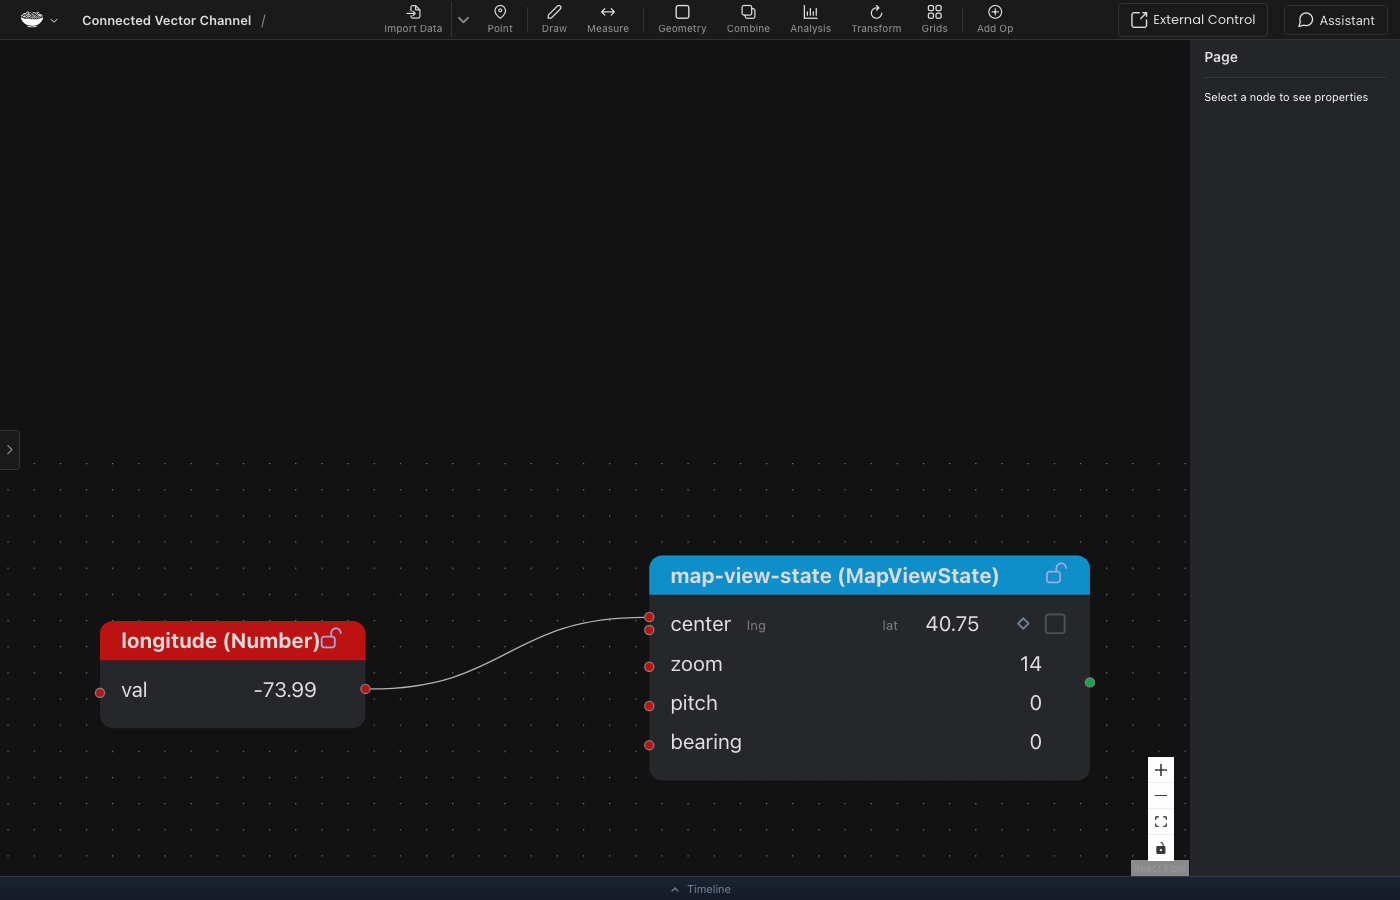
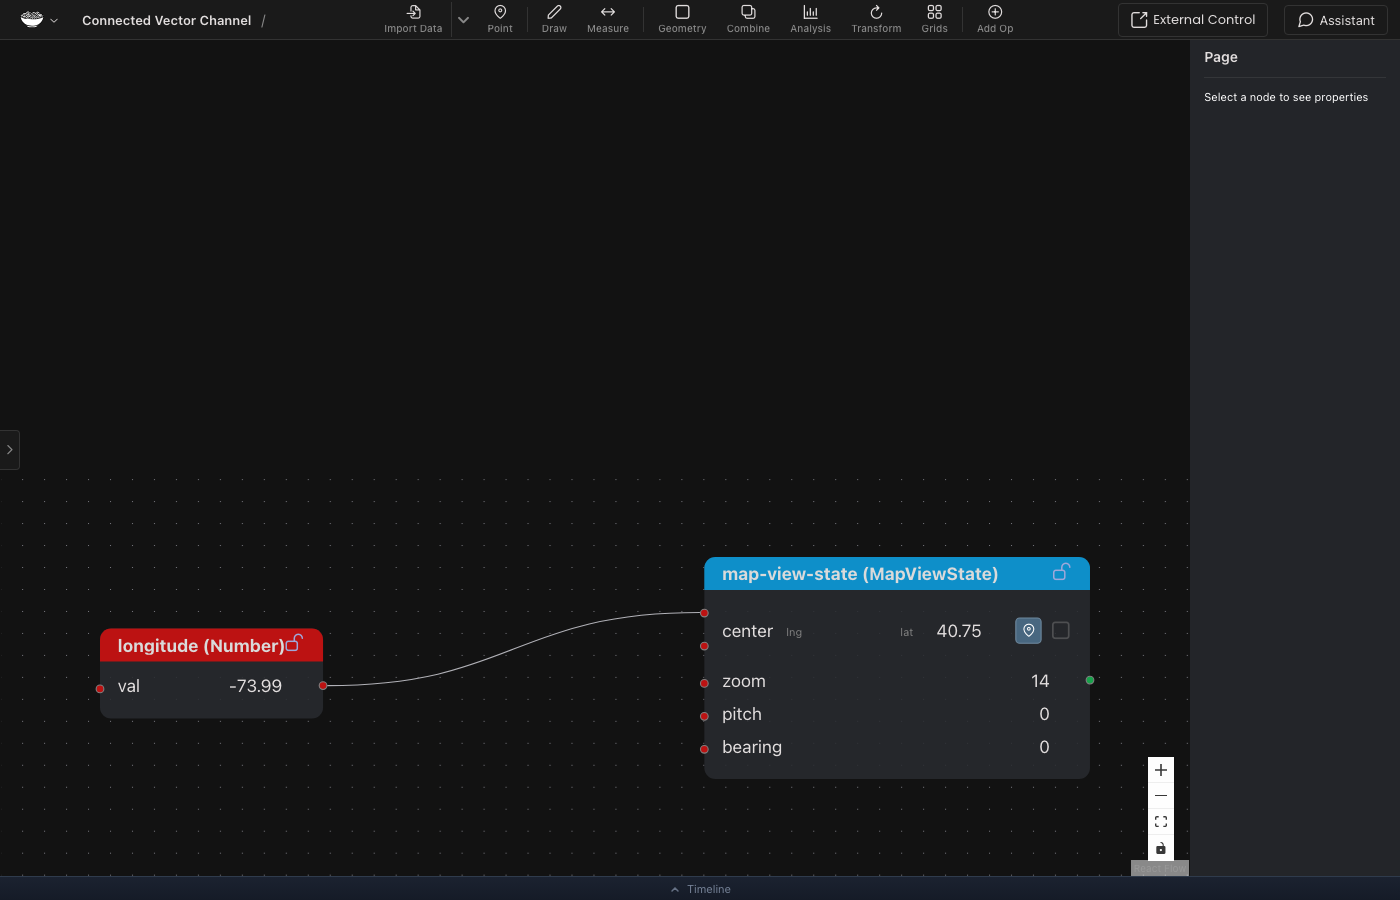
Polish vector port controls

diff --git a/noodles-editor/src/noodles/components/field-components.tsx b/noodles-editor/src/noodles/components/field-components.tsx
@@ -831,20 +831,7 @@ export function VectorFieldComponent({
   const isPointField = field instanceof Point2DField || field instanceof Point3DField
   const isPoint3D = field instanceof Point3DField
 
-  const keys: readonly string[] =
-    (field.constructor as typeof Vec2Field).channelKeys ?? Object.keys(value)
-  const connectedChannelKeyString = useEdgeConnectionStore(
-    useCallback(
-      state => {
-        if (!channelHandles || !opId || !fieldName) return ''
-        return keys
-          .filter(key => state.connectionMap.has(`${opId}::par.${fieldName}.${key}`))
-          .join(',')
-      },
-      [channelHandles, fieldName, keys, opId]
-    )
-  )
-  const connectedChannelKeys = connectedChannelKeyString ? connectedChannelKeyString.split(',') : []
+  const keys = [...((field.constructor as typeof Vec2Field).channelKeys ?? Object.keys(value))]
 
   // Track the latest value in a ref for onCommit
   const latestValueRef = useRef(value)
@@ -956,7 +943,7 @@ export function VectorFieldComponent({
             />
           )
         })}
-        {isPointField && !channelHandles && (
+        {isPointField && (
           <Button
             icon="pi pi-map-marker"
             className={s.fieldLookupButton}
@@ -971,7 +958,7 @@ export function VectorFieldComponent({
             text
           />
         )}
-        {opId && fieldName && (
+        {opId && fieldName && !channelHandles && (
           <VectorKeyframeIndicator
             opId={opId}
             fieldName={fieldName}
@@ -979,14 +966,13 @@ export function VectorFieldComponent({
             value={value as Record<string | number, number>}
             returnType={field.returnType}
             disabled={disabled}
-            disabledKeys={connectedChannelKeys}
             onKeyframeAdded={expandTimeline}
           />
         )}
         {portModeControl}
       </div>
 
-      {isPointField && !channelHandles && (
+      {isPointField && (
         <GeocodingDialog
           open={geocodingOpen}
           onOpenChange={setGeocodingOpen}
@@ -1048,13 +1034,11 @@ function VectorChannelHandle({
   handleId,
   field,
   index,
-  count,
 }: {
   nodeId: string
   handleId: string
   field: NumberField
   index: number
-  count: number
 }) {
   const isHandleDimmed = useHandleDimmed(nodeId, handleId)
 
@@ -1063,7 +1047,8 @@ function VectorChannelHandle({
       id={handleId}
       className={cx(handleClass(field), { [s.handleDimmed]: isHandleDimmed })}
       style={{
-        top: `${((index + 1) / (count + 1)) * 100}%`,
+        // Match the 28px field row plus the 2px gap used by the node content.
+        top: `${12.5 + index * 30}px`,
         transform: 'translate(-17px, -50%)',
       }}
       type="target"
@@ -2503,10 +2488,18 @@ export function CompoundFieldComponent({
   )
 }
 
-export function EmptyFieldComponent({ id }: { id: OpId; field: Field<IField> }) {
+export function EmptyFieldComponent({
+  id,
+  trailingControl,
+}: {
+  id: OpId
+  field: Field<IField>
+  trailingControl?: ReactNode
+}) {
   return (
     <div className={cx(s.fieldWrapper, 'nokey')}>
       <div className={s.fieldLabel}>{id}</div>
+      {trailingControl}
     </div>
   )
 }
@@ -3465,25 +3458,37 @@ export function FieldComponent({
   const handleStyle = renderInput
     ? { top: '12.5px', transform: `translateX(${translateX})` }
     : { top: '15px', transform: `translateX(${translateX})` }
+  const channelCount =
+    supportsChannelPorts && portMode === 'channels' && hasChannelFields(field)
+      ? Object.keys(field.channelFields).length
+      : 0
+  const channelFieldStyle = {
+    position: 'relative' as const,
+    ...(channelCount > 0
+      ? {
+          display: 'flex',
+          alignItems: 'center',
+          // Treat each channel as a standard 28px field row separated by the
+          // node content's normal 2px gap.
+          minHeight: `${channelCount * 28 + (channelCount - 1) * 2}px`,
+        }
+      : {}),
+  }
 
   return (
     // biome-ignore lint/a11y/noStaticElementInteractions: right-click menu is a shortcut; the same actions are reachable via the Properties Panel context menu
-    <div
-      style={{ position: 'relative' }}
-      onContextMenu={canDrive || isDriven ? onContextMenu : undefined}
-    >
+    <div style={channelFieldStyle} onContextMenu={canDrive || isDriven ? onContextMenu : undefined}>
       {supportsChannelPorts &&
         portMode === 'channels' &&
         nid &&
         hasChannelFields(field) &&
-        Object.entries(field.channelFields).map(([channelName, channelField], index, channels) => (
+        Object.entries(field.channelFields).map(([channelName, channelField], index) => (
           <VectorChannelHandle
             key={channelName}
             nodeId={nid}
             handleId={`par.${fieldId}.${channelName}`}
             field={channelField}
             index={index}
-            count={channels.length}
           />
         ))}
       {handle &&
@@ -3517,7 +3522,7 @@ export function FieldComponent({
               portModeControl={portModeControl}
             />
           ) : hasIncomingConnection ? (
-            <EmptyFieldComponent id={fieldId} field={field} />
+            <EmptyFieldComponent id={fieldId} field={field} trailingControl={portModeControl} />
           ) : (
             <VectorFieldComponent
               id={fieldId}
@@ -3539,7 +3544,6 @@ export function FieldComponent({
         ) : (
           <InputComp id={fieldId} field={field} disabled={disabled} />
         ))}
-      {supportsChannelPorts && portMode === 'whole' && hasIncomingConnection && portModeControl}
       {contextMenuPos && nid && (
         <FieldContextMenu
           field={field}

diff --git a/noodles-editor/src/timeline/components/KeyframeIndicator.tsx b/noodles-editor/src/timeline/components/KeyframeIndicator.tsx
@@ -190,11 +190,10 @@ export function KeyframeIndicator({
 export interface VectorKeyframeIndicatorProps {
   opId: string
   fieldName: string
-  keys: readonly string[]
+  keys: string[]
   value: Record<string | number, number>
   returnType: string
   disabled?: boolean
-  disabledKeys?: readonly string[]
   onKeyframeAdded?: () => void
 }
 
@@ -205,13 +204,9 @@ export function VectorKeyframeIndicator({
   value,
   returnType,
   disabled = false,
-  disabledKeys = [],
   onKeyframeAdded,
 }: VectorKeyframeIndicatorProps) {
-  const activeChannels = keys
-    .map((key, index) => ({ key, index, path: getFieldPath(opId, fieldName, [key]) }))
-    .filter(channel => !disabledKeys.includes(channel.key))
-  const fieldPaths = activeChannels.map(channel => channel.path)
+  const fieldPaths = keys.map(key => getFieldPath(opId, fieldName, [key]))
 
   // "at keyframe" only when ALL channels have a keyframe at the current position
   const isAtKeyframe = useTimelineStore(state => {
@@ -235,7 +230,7 @@ export function VectorKeyframeIndicator({
     (e: React.MouseEvent) => {
       e.stopPropagation()
       e.preventDefault()
-      if (disabled || activeChannels.length === 0) return
+      if (disabled) return
       const store = getTimelineStore()
       const position = store.position
       const epsilon = 0.001
@@ -249,10 +244,10 @@ export function VectorKeyframeIndicator({
         }
       } else {
         let added = false
-        for (const channel of activeChannels) {
-          const objectKey = returnType === 'tuple' ? channel.index : channel.key
+        for (let i = 0; i < keys.length; i++) {
+          const objectKey = returnType === 'tuple' ? i : keys[i]
           const channelValue = value[objectKey]
-          const path = channel.path
+          const path = fieldPaths[i]
           store.getOrCreateTrack(path, channelValue)
           const track = store.getTrack(path)
           if (!track) continue
@@ -265,7 +260,7 @@ export function VectorKeyframeIndicator({
         if (added) onKeyframeAdded?.()
       }
     },
-    [activeChannels, fieldPaths, value, returnType, isAtKeyframe, disabled, onKeyframeAdded]
+    [fieldPaths, keys, value, returnType, isAtKeyframe, disabled, onKeyframeAdded]
   )
 
   const isAnimated = hasKeyframes && !isAtKeyframe
@@ -290,7 +285,7 @@ export function VectorKeyframeIndicator({
       type="button"
       className={className}
       onClick={handleClick}
-      disabled={disabled || activeChannels.length === 0}
+      disabled={disabled}
       title={title}
       aria-label={title}
     >

diff --git a/noodles-editor/src/noodles/components/field-components.test.tsx b/noodles-editor/src/noodles/components/field-components.test.tsx
@@ -557,6 +557,21 @@ describe('EmptyFieldComponent', () => {
     const label = screen.getByText('customDataField')
     expect(label).toBeInTheDocument()
   })
+
+  it('keeps a trailing control inline with the field label', () => {
+    const field = new DataField()
+    render(
+      <EmptyFieldComponent
+        id="data"
+        field={field}
+        trailingControl={<button type="button">Layout</button>}
+      />
+    )
+
+    const label = screen.getByText('data')
+    const control = screen.getByRole('button', { name: 'Layout' })
+    expect(label.parentElement).toContainElement(control)
+  })
 })
 
 describe('VectorFieldComponent', () => {
@@ -681,6 +696,38 @@ describe('VectorFieldComponent', () => {
       expect(getComputedStyle(inputRow!).display).toBe('flex')
       expect(getComputedStyle(inputRow!).flexDirection).toBe('row')
       expect(within(inputRow as HTMLElement).getAllByRole('spinbutton')).toHaveLength(2)
+    })
+
+    it('does not add the aggregate keyframe control in channel mode', () => {
+      const field = new Point2DField({ lng: -122.4, lat: 37.8 })
+      render(
+        <VectorFieldComponent
+          id="center"
+          field={field}
+          disabled={false}
+          opId="/map"
+          fieldName="center"
+          channelHandles
+        />
+      )
+
+      expect(screen.queryByRole('button', { name: 'Add keyframes' })).not.toBeInTheDocument()
+    })
+
+    it('keeps location lookup available in channel mode', () => {
+      const field = new Point2DField({ lng: -122.4, lat: 37.8 })
+      render(
+        <VectorFieldComponent
+          id="center"
+          field={field}
+          disabled={false}
+          opId="/map"
+          fieldName="center"
+          channelHandles
+        />
+      )
+
+      expect(screen.getByTitle('Lookup Location')).toBeInTheDocument()
     })
 
     it('disables lookup button when disabled', () => {
